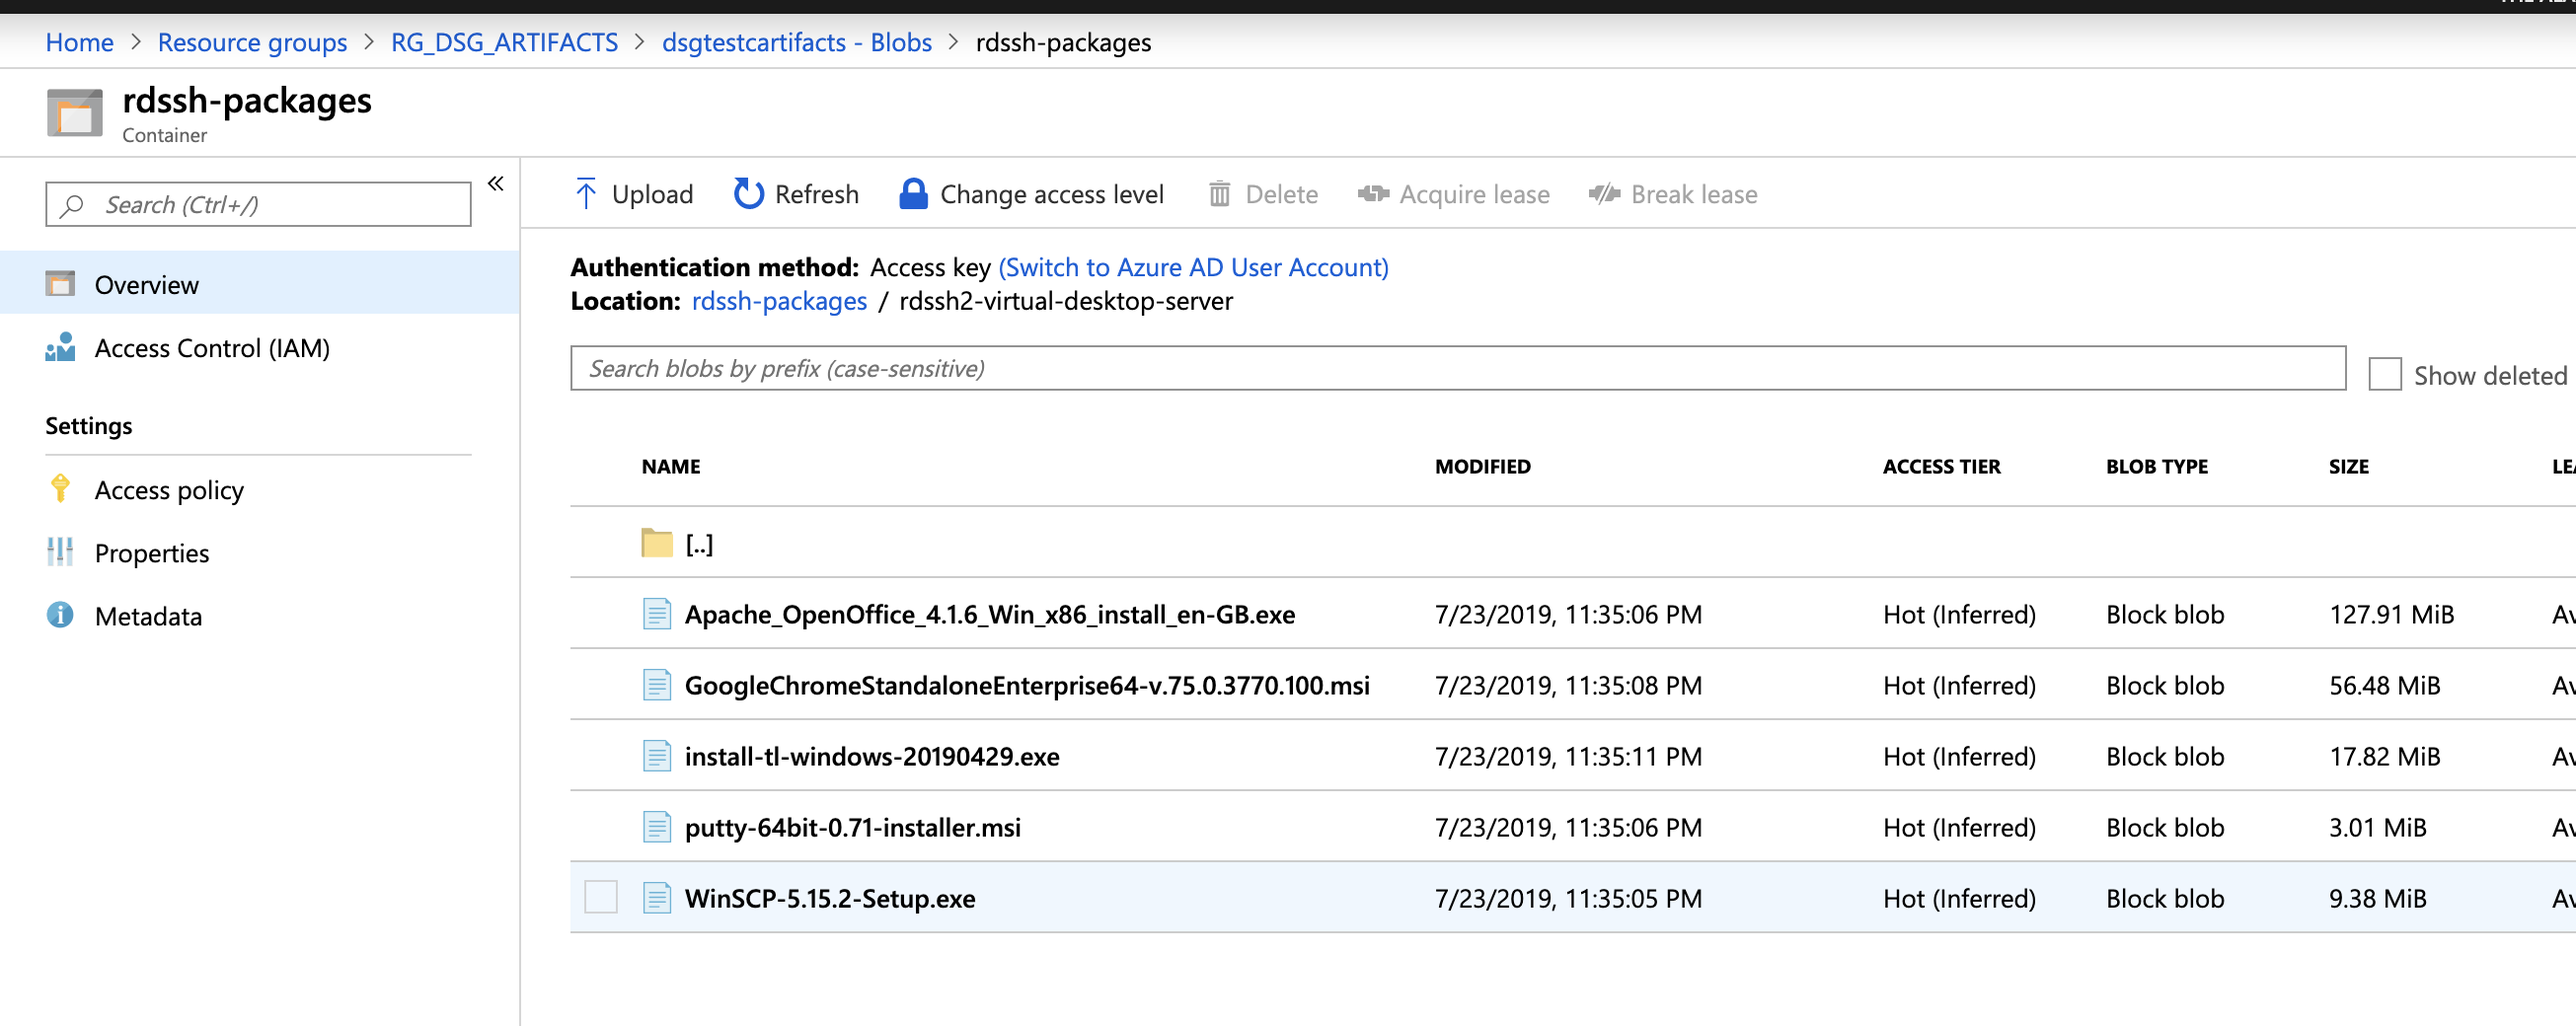
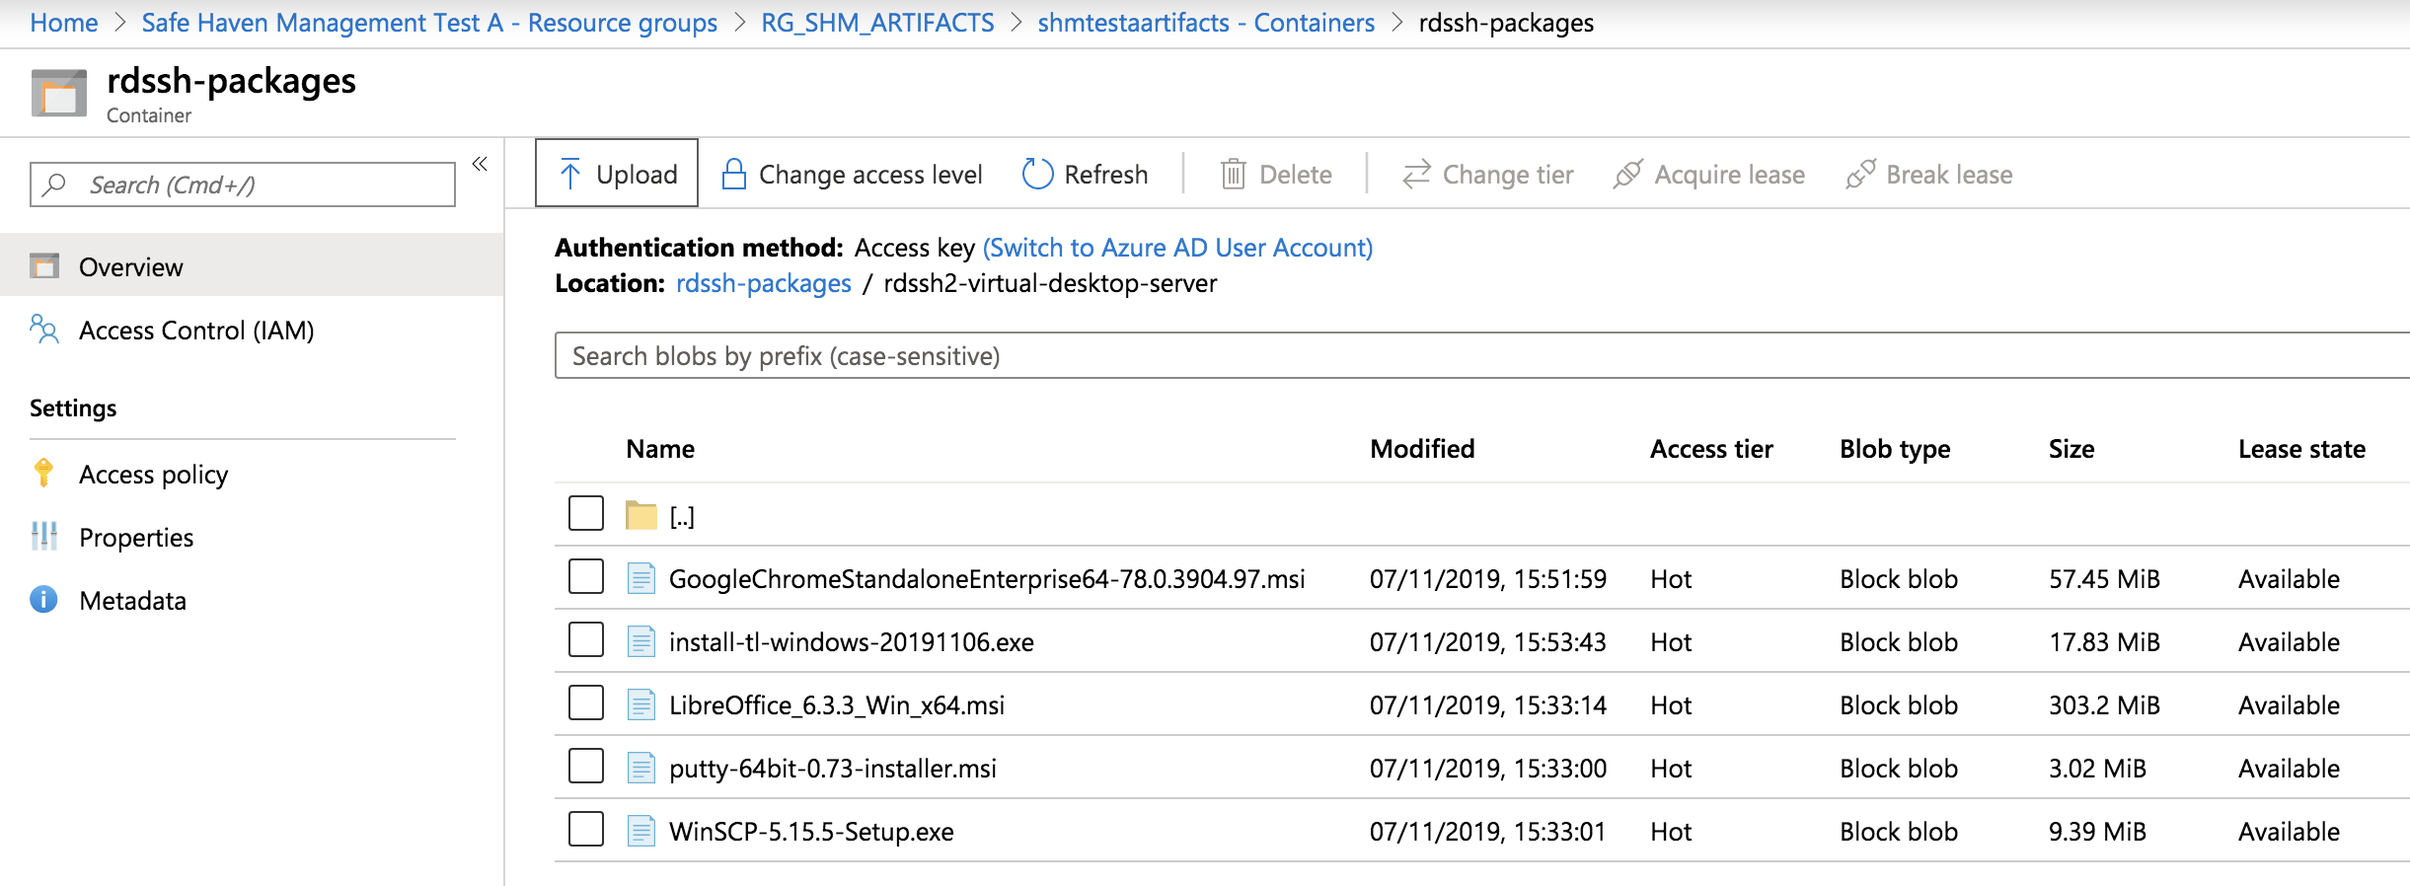
Updated RDS images and text

diff --git a/safe_haven_management_environment/azure-runbooks/SHM-Build-Instructions.md b/safe_haven_management_environment/azure-runbooks/SHM-Build-Instructions.md
@@ -205,22 +205,22 @@ A number of files are critical for the DSG deployment. They must be added to blo
 
    ![](images/blobstorage.png)
 
-2. On your local machine download the following and place into a folder called `rdssh1-app-server`, renaming them so that the filenames include the full version if the downloaded files do not already.
+2. On your local machine download the following and place into a folder called `rdssh1-app-server`.
 
-    - [Chrome Enterprise 64 bit The GoogleChromeStandaloneEnterprise64-v.75.0.3770.100.msi file; unpack zip to find it](https://cloud.google.com/chrome-enterprise/browser/download/?h1=en)
-    - [Putty 64bit - windows .msi](https://www.chiark.greenend.org.uk/~sgtatham/putty/latest.html)
-    - [WinSCP](https://winscp.net/download/WinSCP-5.15.2-Setup.exe)
+    - `GoogleChromeStandaloneEnterprise64-<version number>.msi` which you should unpack from the [Chrome bundle for Windows 64‑bit](https://cloud.google.com/chrome-enterprise/browser/download/?h1=en) zip file, appending the version number
+    - `putty-64bit-<version number>-installer.msi` taking the [latest version from here](https://www.chiark.greenend.org.uk/~sgtatham/putty/latest.html)
+    - `WinSCP-<version number>-Setup.exe` taking the [latest version from here](https://winscp.net/eng/download.php)
 
 3. Upload the folder to the `rdssh-packages`, ensuring it has the same name. The container will now look like this:
    ![](images/rdssh1-app-server.png)
 
 4. Do the same again but with a folder called `rdssh2-virtual-desktop-server` with the following files:
-   - [Chrome Enterprise 64 bit The GoogleChromeStandaloneEnterprise64-v.75.0.3770.100.msi file; unpack zip to find it](https://cloud.google.com/chrome-enterprise/browser/download/?h1=en)
-   - [Putty 64bit - windows .msi](https://www.chiark.greenend.org.uk/~sgtatham/putty/latest.html)
-   - [WinSCP](https://winscp.net/download/WinSCP-5.15.2-Setup.exe)
-
-   - [Apache (WIndows v 4.1.6)](https://www.openoffice.org/download/index.html)
-   - [Texlive: install-tl-windows-20190429.exe](http://mirror.ctan.org/systems/texlive/tlnet/install-tl-windows.exe)
+    - `GoogleChromeStandaloneEnterprise64-<version number>.msi` which you should unpack from the [Chrome bundle for Windows 64‑bit](https://cloud.google.com/chrome-enterprise/browser/download/?h1=en) zip file, appending the version number
+    - `install-tl-windows-<date>.exe` taking the [latex TexLive version from here](http://mirror.ctan.org/systems/texlive/tlnet/install-tl-windows.exe), appending the creation date.
+    - `LibreOffice_<version number>_Win_x64.msi` taking the [latest Windows (64 bit) version from here](https://www.libreoffice.org/download/download/)
+    - `putty-64bit-<version number>-installer.msi` taking the [latest version from here](https://www.chiark.greenend.org.uk/~sgtatham/putty/latest.html)
+    - `WinSCP-<version number>-Setup.exe` taking the [latest version from here](https://winscp.net/eng/download.php)
+    <!-- - [Apache (WIndows v 4.1.6)](https://www.openoffice.org/download/index.html) -->
 
 5. The container will now look like this:
    ![](images/rdshh2-virtual-desktop-server.png)
@@ -258,7 +258,7 @@ You should now be able to connect to the SHM virtual network. Each time you need
 
 4. Copy the Private IP address and enter it in the `PC name` field on remote desktop. Click Add.
 
-5. Double click on the desktop that appears under `saved desktops`. 
+5. Double click on the desktop that appears under `saved desktops`.
   - To obtain the username and password on Azure navigate to the `RG_DSG_SECRETS` resource group and then the `kv-shm-<shm-id>` key vault and then select `secrets` on the left hand panel. The username is in the `shm-dc-admin-username` secret and the password in the  `shm-dc-admin-password` secret.
 
 ### Active Directory Configuration
